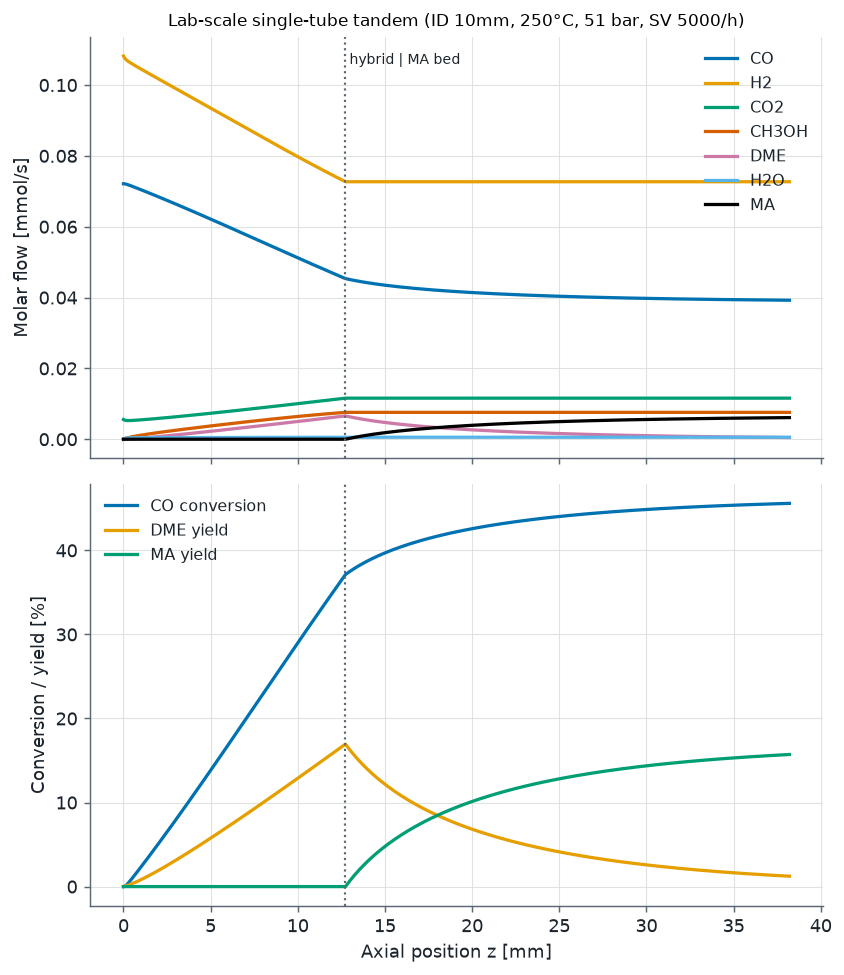
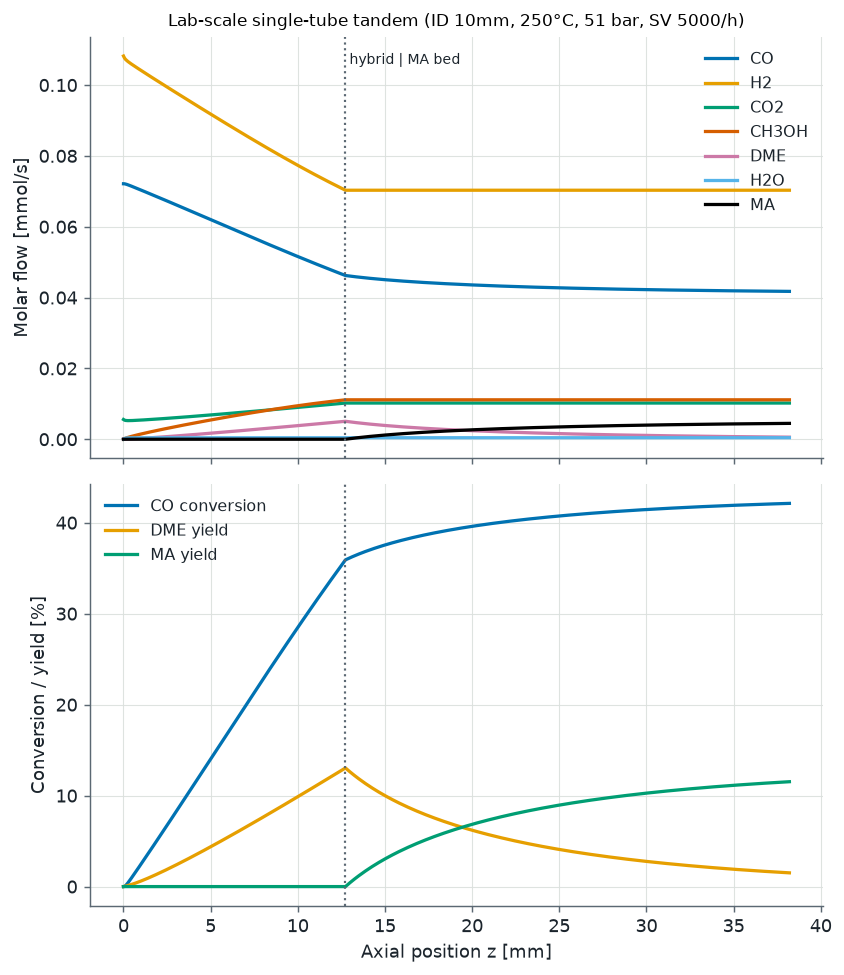
充填密度を触媒別に変更(Cu/ZnO1300, γ-Al2O3 800, H-MOR 700)
ユーザー確認により mL→kg 換算の ρ_bed を触媒別に設定。床長は
z=V/A で ρ 非依存のため長さ軸は不変(L1=12.7/L2=25.5mm)。
Geometry 依存を外し床長を充填体積から直接算出。

diff --git a/examples/fig_tandem_labscale.py b/examples/fig_tandem_labscale.py
@@ -15,8 +15,9 @@
 ★2 SV=5000/h の基準 = **全触媒体積 3.0 mL・STP(0℃,1atm)** の GHSV とみなした。
      → Q_STP = 5000×3.0 mL/h = 15 L/h, n_dot = 15/22.414 = 1.859e-4 mol/s。
      基準が「ハイブリッドのみ 1.0 mL」や 25℃ STP なら流量が変わる。
-★3 充填密度 ρ_bed = 1200 kg/m³ を全触媒共通と仮定（mL→kg 換算・長さ軸に使用）。
-     実際は Cu/ZnO(~1300)・γ-Al2O3(~800)・H-MOR(~700) と異なる。
+★3 充填密度 ρ_bed を触媒別に設定（mL→kg 換算に使用）:
+     合成 Cu/ZnO/Al2O3=1300, 脱水 γ-Al2O3=800, カルボニル化 H-MOR=700 kg/m³（概算）。
+     床長は z=V/A（充填体積÷断面積）で ρ に依らないため長さ軸は密度非依存。
 ★4 段2は水阻害なしの DTU-Cheung2007-2 を使用。だが本構成は段間乾燥が無く MA 床に
      H2O が入る（Cheung2007: 1.1kPa H2O で速度 1/14）。→ **MA は過大評価側**。
 ★5 250℃ はカルボニル化の検証域(150–190℃)外の外挿（Ea≈69.6, 438K の ~22 倍速）。
@@ -26,7 +27,6 @@
 import numpy as np
 import matplotlib.pyplot as plt
 
-from reaction_rate import Geometry
 from reaction_rate.reactors import pfr, CatalystBed
 from reaction_rate import plots
 
@@ -37,21 +37,23 @@ H2_CO = 1.5                      # H2/CO [mol/mol]
 Y_CO2 = 0.03                     # ★1 CO2 添加分 [mol%/100]（KOGAS を動かすため）
 SV = 5000.0                      # 空間速度 [1/h]
 
-# ── 触媒（体積 → 質量）★3 共通 ρ_bed ─────────────────────
-RHO = 1200.0                     # 充填密度 [kg/m³] = 1.2 g/mL
+# ── 触媒（体積 → 質量）★3 触媒別 ρ_bed ───────────────────
+RHO_SYN, RHO_DEH, RHO_MA = 1300.0, 800.0, 700.0   # [kg/m³] Cu/ZnO, γ-Al2O3, H-MOR
 V_HYB = 1.0e-6                   # ハイブリッド 1.0 mL [m³]
 V_MA  = 2.0e-6                   # MA 触媒 2.0 mL [m³]
 V_TOT = V_HYB + V_MA             # ★2 SV 基準の全触媒体積 3.0 mL
 R_SYN_DEH = (1.0, 0.9)          # ハイブリッド内 合成:脱水 体積比 1:0.9
 f_syn = R_SYN_DEH[0] / sum(R_SYN_DEH)
-m_syn = RHO * V_HYB * f_syn                 # 合成触媒 [kg]
-m_deh = RHO * V_HYB * (1 - f_syn)           # 脱水触媒 [kg]
-m_ma  = RHO * V_MA                          # MA 触媒 [kg]
+V_syn, V_deh = V_HYB * f_syn, V_HYB * (1 - f_syn)
+m_syn = RHO_SYN * V_syn                      # 合成触媒 [kg]
+m_deh = RHO_DEH * V_deh                      # 脱水触媒 [kg]
+m_ma  = RHO_MA * V_MA                         # MA 触媒 [kg]
 
-# ── 反応管幾何（内径10mm）───────────────────────────────
+# ── 反応管幾何（内径10mm）。床長は z=V/A（ρ 非依存）─────────
 ID = 0.010
 AREA = np.pi / 4 * ID**2
-GEOM = Geometry(area=AREA, bulk_density=RHO, void_fraction=0.40)
+L_HYB = V_HYB / AREA * 1e3        # ハイブリッド床長 [mm]
+L_MA  = V_MA / AREA * 1e3         # MA 床長 [mm]
 
 # ── 供給流量（SV → mol/s）★2 ───────────────────────────
 VM_STP = 22.414e-3               # STP モル体積 [m³/mol] (0℃,1atm)
@@ -82,8 +84,9 @@ def run():
 
 def main():
     res1, res2 = run()
-    z1 = res1.length(GEOM) * 1e3                      # [mm]
-    z2 = res2.length(GEOM) * 1e3 + z1[-1]            # 段2 は段1 長さ分オフセット
+    # 床長は充填体積で決まる（z=V/A, ρ 非依存）。W グリッドを 0..L に線形マップ
+    z1 = res1.W / res1.W[-1] * L_HYB                  # [mm]
+    z2 = res2.W / res2.W[-1] * L_MA + L_HYB           # 段2 は段1 長さ分オフセット
     z_if = z1[-1]                                     # 床境界 [mm]
 
     # 軸方向モル流量 [mmol/s]（段1・段2 を連結）
